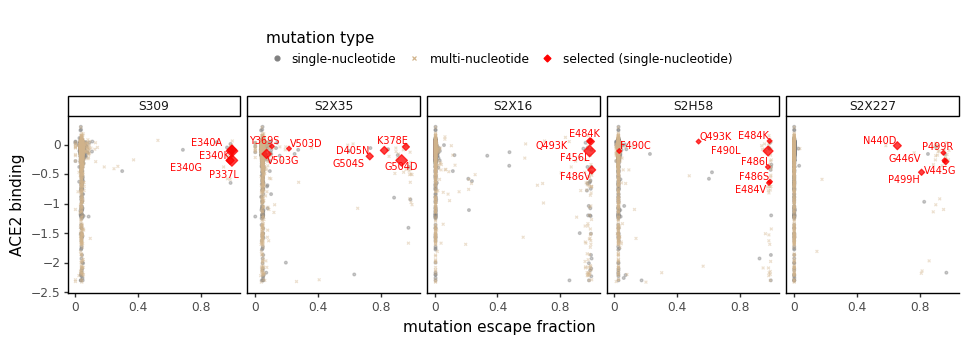
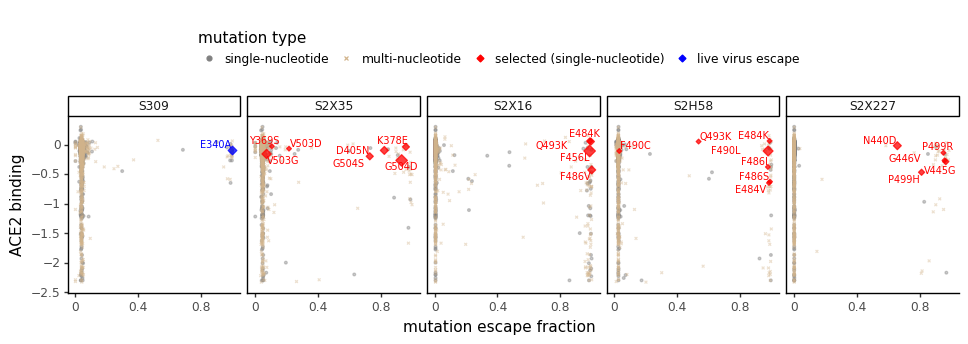
update s309 selections cathcart

Changed region(s): [[0.186, 0.0872, 0.8368, 0.2035], [0.186, 0.407, 0.2479, 0.5233]]

diff --git a/results/summary/escape_selections.md b/results/summary/escape_selections.md
@@ -411,36 +411,9 @@ display(HTML(selection_df.to_html(index=False)))
       <td>S309_421</td>
       <td>340</td>
       <td>E</td>
-      <td>K</td>
-      <td>13</td>
-      <td>E340K</td>
-    </tr>
-    <tr>
-      <td>vir_whelan_VSV_supp</td>
-      <td>S309_421</td>
-      <td>340</td>
-      <td>E</td>
       <td>A</td>
-      <td>6</td>
+      <td>5</td>
       <td>E340A</td>
-    </tr>
-    <tr>
-      <td>vir_whelan_VSV_supp</td>
-      <td>S309_421</td>
-      <td>340</td>
-      <td>E</td>
-      <td>G</td>
-      <td>4</td>
-      <td>E340G</td>
-    </tr>
-    <tr>
-      <td>vir_whelan_VSV_supp</td>
-      <td>S309_421</td>
-      <td>337</td>
-      <td>P</td>
-      <td>L</td>
-      <td>10</td>
-      <td>P337L</td>
     </tr>
     <tr>
       <td>vir_whelan_VSV_supp</td>
